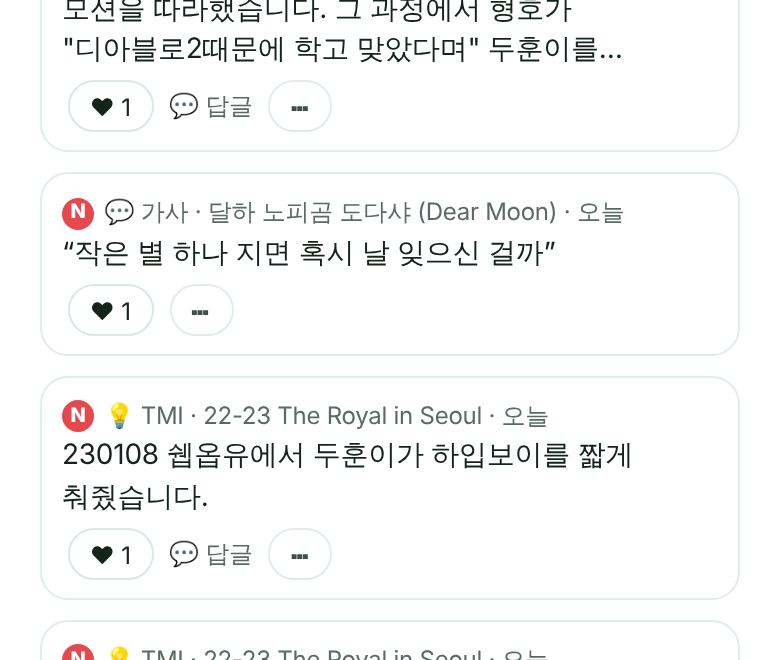
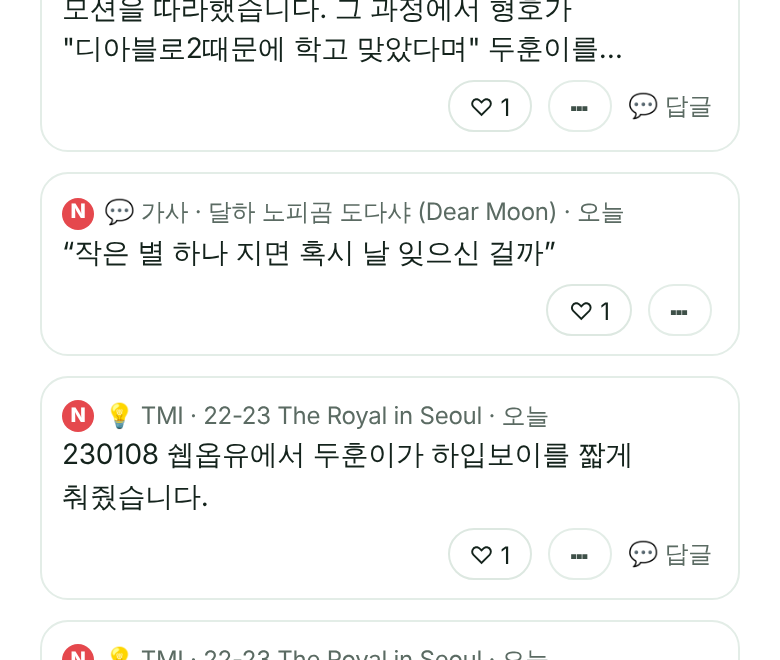
v490: 숲별 이야기 버튼 오른쪽 정렬(♥·⋯·💬), 안 누른 하트는 ♡
Claude-Session: https://claude.ai/code/session_01MGTh9zKioiZsMkgnkSk7j5

diff --git a/app.js b/app.js
@@ -603,7 +603,7 @@
     const uid = myUid(), upLocal = new Set([...(boxRead('sb-ly-up') || []), ...(boxRead(CH_SENT) || []), ...(boxRead(TMI_SENT) || [])].map(x => x.id)), rpd = boxRead(RP_SENT) || [];
     const mine = l.first === uid, on = mine || l.who.includes(uid) || upLocal.has(l.id), n = l.n + (upLocal.has(l.id) && !l.who.includes(uid) ? 1 : 0);
     return `<div class="story-row${rpd.includes(l.id) ? ' rp-done' : ''}"><a class="x-card no-img note-card story-card" href="${noteHref(l)}"><span class="x-text"><span class="x-date">${l.n >= STORY_BEST ? '<em class="nw-badge best-badge">BEST</em> ' : ''}${storyTag(l, fresh)}${NOTE_ICON[l.kind] || l.kind} · ${esc(noteWhere(l))} · ${storyAgo(l.at)}</span><span class="x-body">${l.kind === '가사' ? '“' + esc(l.text) + '”' : esc(l.text)}</span>${l.src ? `<span class="story-src">출처: ${esc(l.src)}</span>` : ''}</span></a>
-        <span class="story-acts"><button type="button" class="bpill st-up${on ? ' on' : ''}" data-id="${esc(l.id)}"${on ? ' disabled' : ''} aria-label="${l.kind === 'TMI' ? '나도 봤어요' : '좋아요'}">♥ ${n}</button>${l.kind === 'TMI' ? `<a class="st-re" href="${noteHref(l)}">💬 ${treCount(l.id) || '답글'}</a>` : ''}${trBtn(l.text)}${mine ? '' : rpBtn(l)}</span></div>`;
+        <span class="story-acts">${trBtn(l.text)}<button type="button" class="bpill st-up${on ? ' on' : ''}" data-id="${esc(l.id)}"${on ? ' disabled' : ''} aria-label="${l.kind === 'TMI' ? '나도 봤어요' : '좋아요'}">${on ? '♥' : '♡'} ${n}</button>${mine ? '' : rpBtn(l)}${l.kind === 'TMI' ? `<a class="st-re" href="${noteHref(l)}">💬 ${treCount(l.id) || '답글'}</a>` : ''}</span></div>`;
     }
   // 화면 꾸미기: 테마 색·글씨 크기 (이 폰에만 기억, sb-deco). 처음 그릴 때 깜빡이지 않게 index.html 머리에서도 한 번 넣어요
   const DECO_T = [['', '숲', '#1C7A5E'], ['night', '밤하늘', '#1F2286'], ['sakura', '벚꽃', '#AB274A'], ['sea', '바다', '#1E5782'], ['sunset', '노을', '#A35425'], ['lavender', '라벤더', '#6C2397']];
@@ -1463,7 +1463,7 @@
     const sentLocal = boxRead('sb-ly-sent') || [];
     const row = l => {
       const me = l.who.includes(uid) || sentLocal.includes(l.id);
-      return `<div class="ly-line"><q>${esc(l.text)}</q><span class="ly-side"><button type="button" class="bpill ly-up${me ? ' on' : ''}" data-key="${esc(so.key)}" data-t="${esc(l.text)}"${me ? ' disabled' : ''}>♥ ${l.n + (sentLocal.includes(l.id) && !l.who.includes(uid) ? 1 : 0)}</button><button type="button" class="link-btn lyc-btn" data-key="${esc(so.key)}" data-t="${esc(l.text)}" aria-label="가사 카드 만들기">🖼</button>${me ? '' : rpBtn(l)}${isAdmin() ? `<button type="button" class="link-btn ly-hide" data-id="${esc(l.id)}">숨기기</button>` : ''}</span></div>`;
+      return `<div class="ly-line"><q>${esc(l.text)}</q><span class="ly-side"><button type="button" class="bpill ly-up${me ? ' on' : ''}" data-key="${esc(so.key)}" data-t="${esc(l.text)}"${me ? ' disabled' : ''}>${me ? '♥' : '♡'} ${l.n + (sentLocal.includes(l.id) && !l.who.includes(uid) ? 1 : 0)}</button><button type="button" class="link-btn lyc-btn" data-key="${esc(so.key)}" data-t="${esc(l.text)}" aria-label="가사 카드 만들기">🖼</button>${me ? '' : rpBtn(l)}${isAdmin() ? `<button type="button" class="link-btn ly-hide" data-id="${esc(l.id)}">숨기기</button>` : ''}</span></div>`;
     };
     const myRow = (m, i) => `<div class="ly-line mine"><q>${esc(m.t)}</q><span class="ly-side"><small>${m.sh ? '공유함' : '🔒 나만'}</small><button type="button" class="link-btn lyc-btn" data-key="${esc(so.key)}" data-t="${esc(m.t)}" aria-label="가사 카드 만들기">🖼</button><button type="button" class="link-btn ly-del" data-key="${esc(so.key)}" data-i="${i}" aria-label="지우기">×</button></span></div>`;
     const n = shared.length + mine.filter(m => !m.sh).length;
@@ -1681,7 +1681,7 @@
     sent.filter(x => x.key === so.key && !list.some(l => l.id === x.id) && !x.del).forEach(x => list.push({ id: x.id, text: x.t, n: 1, who: [uid], at: x.at, wait: true }));
     const row = l => {
       const me = l.who.includes(uid) || ids.has(l.id);
-      return `<div class="ly-line"><span class="ch-t">${esc(l.text)}${l.wait ? ' <small class="src-note">반영 중</small>' : ''}</span><span class="ly-side"><button type="button" class="bpill ch-up${me ? ' on' : ''}" data-key="${esc(so.key)}" data-t="${esc(l.text)}"${me ? ' disabled' : ''} aria-label="나도 이렇게 불러요">♥ ${l.n + (ids.has(l.id) && !l.who.includes(uid) && !l.wait ? 1 : 0)}</button><button type="button" class="link-btn lyc-btn" data-key="${esc(so.key)}" data-t="${esc(l.text)}" aria-label="가사 카드 만들기">🖼</button>${me ? `<button type="button" class="link-btn ch-del" data-key="${esc(so.key)}" data-t="${esc(l.text)}" aria-label="지우기">×</button>` : rpBtn(l)}${isAdmin() ? `<button type="button" class="link-btn ly-hide" data-id="${esc(l.id)}">숨기기</button>` : ''}</span></div>`;
+      return `<div class="ly-line"><span class="ch-t">${esc(l.text)}${l.wait ? ' <small class="src-note">반영 중</small>' : ''}</span><span class="ly-side"><button type="button" class="bpill ch-up${me ? ' on' : ''}" data-key="${esc(so.key)}" data-t="${esc(l.text)}"${me ? ' disabled' : ''} aria-label="나도 이렇게 불러요">${me ? '♥' : '♡'} ${l.n + (ids.has(l.id) && !l.who.includes(uid) && !l.wait ? 1 : 0)}</button><button type="button" class="link-btn lyc-btn" data-key="${esc(so.key)}" data-t="${esc(l.text)}" aria-label="가사 카드 만들기">🖼</button>${me ? `<button type="button" class="link-btn ch-del" data-key="${esc(so.key)}" data-t="${esc(l.text)}" aria-label="지우기">×</button>` : rpBtn(l)}${isAdmin() ? `<button type="button" class="link-btn ly-hide" data-id="${esc(l.id)}">숨기기</button>` : ''}</span></div>`;
     };
     return `<details class="song-memo ch-box"${list.length ? ' open' : ''}><summary>📣 떼창 구간${list.length ? ` ${list.length}` : ''}</summary>
       ${list.map(row).join('')}
@@ -1779,7 +1779,7 @@
     const uid = myUid(), sent = boxRead(TMI_SENT) || [], ids = new Set(sent.map(x => x.id)), list = treOf(l.id), rpd = boxRead(RP_SENT) || [];
     const row = r => {
       const me = r.first === uid || (ids.has(r.id) && !(sent.find(x => x.id === r.id) || {}).up), on = me || r.who.includes(uid) || ids.has(r.id);
-      return `<div class="tre-row${rpd.includes(r.id) ? ' rp-done' : ''}"><div class="ly-line tre-line"><span class="ch-t">↳ ${esc(r.text)}${r.wait ? ' <small class="src-note">반영 중</small>' : ''}</span><span class="ly-side"><button type="button" class="bpill tre-up${on ? ' on' : ''}" data-key="${esc(key)}" data-p="${esc(l.id)}" data-t="${esc(r.text)}"${on ? ' disabled' : ''} aria-label="좋아요">♥ ${r.n + (ids.has(r.id) && !r.who.includes(uid) && !r.wait ? 1 : 0)}</button>${me ? `<button type="button" class="link-btn tre-del" data-p="${esc(l.id)}" data-t="${esc(r.text)}" aria-label="지우기">×</button>` : rpBtn(r)}${isAdmin() && !r.wait ? `<button type="button" class="link-btn ly-hide" data-id="${esc(r.id)}">숨기기</button>` : ''}</span></div>${depth < 1 && !r.wait ? treBox(r, key, depth + 1) : ''}</div>`;
+      return `<div class="tre-row${rpd.includes(r.id) ? ' rp-done' : ''}"><div class="ly-line tre-line"><span class="ch-t">↳ ${esc(r.text)}${r.wait ? ' <small class="src-note">반영 중</small>' : ''}</span><span class="ly-side"><button type="button" class="bpill tre-up${on ? ' on' : ''}" data-key="${esc(key)}" data-p="${esc(l.id)}" data-t="${esc(r.text)}"${on ? ' disabled' : ''} aria-label="좋아요">${on ? '♥' : '♡'} ${r.n + (ids.has(r.id) && !r.who.includes(uid) && !r.wait ? 1 : 0)}</button>${me ? `<button type="button" class="link-btn tre-del" data-p="${esc(l.id)}" data-t="${esc(r.text)}" aria-label="지우기">×</button>` : rpBtn(r)}${isAdmin() && !r.wait ? `<button type="button" class="link-btn ly-hide" data-id="${esc(r.id)}">숨기기</button>` : ''}</span></div>${depth < 1 && !r.wait ? treBox(r, key, depth + 1) : ''}</div>`;
     };
     const n = depth ? list.length : treCount(l.id);
     return `<details class="tre-box${depth ? ' tre-sub' : ''}" data-p="${esc(l.id)}"><summary>💬 답글${n ? ` ${n}` : ' 달기'}</summary>${list.map(row).join('')}
@@ -1818,7 +1818,7 @@
     const srcHtml = u => !u ? '' : /^https?:\/\//.test(u) ? `<a class="tmi-src" href="${esc(u)}" target="_blank" rel="noopener">출처 ↗</a>` : `<span class="tmi-src">출처: ${esc(u)}</span>`;
     const row = l => {
       const me = l.who.includes(uid) || ids.has(l.id);
-      return `<div class="ly-line${rpd.includes(l.id) ? ' rp-done' : ''}"><span class="ch-t">${esc(l.text)} ${srcHtml(l.src)}${l.wait ? ' <small class="src-note">반영 중</small>' : ''}</span><span class="ly-side"><button type="button" class="bpill tmi-up${me ? ' on' : ''}" data-key="${esc(key)}" data-t="${esc(l.text)}"${me ? ' disabled' : ''} aria-label="나도 봤어요">♥ ${l.n + (ids.has(l.id) && !l.who.includes(uid) && !l.wait ? 1 : 0)}</button>${me ? `<button type="button" class="link-btn tmi-del" data-key="${esc(key)}" data-t="${esc(l.text)}" aria-label="지우기">×</button>` : rpBtn(l)}${isAdmin() ? `<button type="button" class="link-btn ly-hide" data-id="${esc(l.id)}">숨기기</button>` : ''}</span></div>${l.wait ? '' : treBox(l, key)}`;
+      return `<div class="ly-line${rpd.includes(l.id) ? ' rp-done' : ''}"><span class="ch-t">${esc(l.text)} ${srcHtml(l.src)}${l.wait ? ' <small class="src-note">반영 중</small>' : ''}</span><span class="ly-side"><button type="button" class="bpill tmi-up${me ? ' on' : ''}" data-key="${esc(key)}" data-t="${esc(l.text)}"${me ? ' disabled' : ''} aria-label="나도 봤어요">${me ? '♥' : '♡'} ${l.n + (ids.has(l.id) && !l.who.includes(uid) && !l.wait ? 1 : 0)}</button>${me ? `<button type="button" class="link-btn tmi-del" data-key="${esc(key)}" data-t="${esc(l.text)}" aria-label="지우기">×</button>` : rpBtn(l)}${isAdmin() ? `<button type="button" class="link-btn ly-hide" data-id="${esc(l.id)}">숨기기</button>` : ''}</span></div>${l.wait ? '' : treBox(l, key)}`;
     };
     return `<section class="tmi-box" data-key="${esc(key)}" data-title="${esc(title)}"><div class="block-head"><h2 class="h3">💡 TMI${list.length ? ` <span class="song-count">${list.length}</span>` : ''}</h2></div>
       ${list.length ? list.map(row).join('') : '<p class="src-note">아직 TMI가 없어요. 알고 있는 뒷이야기를 남겨 주세요.</p>'}

diff --git a/index.html b/index.html
@@ -23,7 +23,7 @@
 <link href="https://fonts.googleapis.com/css2?family=Gowun+Batang:wght@400;700&display=swap" rel="stylesheet">
 <link rel="stylesheet" href="https://cdn.jsdelivr.net/gh/orioncactus/pretendard@v1.3.9/dist/web/variable/pretendardvariable-dynamic-subset.min.css">
 <script>try{var d=JSON.parse(localStorage.getItem('sb-deco')||'{}');if(d.t)document.documentElement.dataset.theme=d.t;if(d.f)document.documentElement.dataset.fs=d.f}catch(e){}</script>
-<link rel="stylesheet" href="style.css?v=489">
+<link rel="stylesheet" href="style.css?v=490">
 </head>
 <body>
 <div class="app">
@@ -46,9 +46,9 @@
 <!-- 방문자 수 (GoatCounter: 쿠키·개인정보 없이 화면별 방문 수만 세요) -->
 <script data-goatcounter="https://soopbyeol.goatcounter.com/count" data-goatcounter-settings='{"no_onload": true}' async src="https://gc.zgo.at/count.js"></script>
 <script src="lib/fuse.min.js"></script>
-<script src="i18n.js?v=489"></script>
-<script src="config.js?v=489"></script>
-<script src="data.js?v=489"></script>
-<script src="app.js?v=489"></script>
+<script src="i18n.js?v=490"></script>
+<script src="config.js?v=490"></script>
+<script src="data.js?v=490"></script>
+<script src="app.js?v=490"></script>
 </body>
 </html>

diff --git a/style.css b/style.css
@@ -1616,10 +1616,9 @@ a.ev-day.went { background: #FFF1F5; color: #B23A5E; }
 .story-card .news-cnt { font-size: calc(10px * var(--fs)); }
 .story-row { position: relative; }
 .story-row .story-card { padding-bottom: 40px; }
-.story-acts { position: absolute; left: 14px; bottom: 10px; display: flex; gap: 8px; align-items: center; }
+.story-acts { position: absolute; right: 14px; bottom: 10px; display: flex; gap: 8px; align-items: center; }
 .story-acts .bpill { height: 26px; font-size: calc(12px * var(--fs)); padding: 0 10px; }
 .story-acts .st-tr { font-size: calc(12px * var(--fs)); color: var(--muted, #6b7a70); background: none; border: 0; padding: 0 2px; cursor: pointer; }
-.story-acts .rp-btn { margin-left: auto; }
 .story-row.rp-done { opacity: .5; }
 .nw-badge { display: inline-block; position: static; padding: 1px 6px; margin-right: 4px; border-radius: 6px; background: #FF6B4A; color: #fff; font-size: calc(10px * var(--fs)); font-weight: 800; letter-spacing: .3px; vertical-align: 1px; }
 .news-cnt { display: inline-block; padding: 1px 7px; border-radius: 6px; background: #FF6B4A; color: #fff !important; font-size: calc(11px * var(--fs)); font-weight: 800; }

diff --git a/sw.js b/sw.js
@@ -1,6 +1,6 @@
 // 한 번 연 화면 파일을 저장해 두고, 다음부터 빨리 열거나 인터넷이 없을 때 써요.
 // 시트 데이터는 data.js가 따로 저장하니까 여기서는 사이트 파일만 다뤄요.
-const CACHE = 'soopbyeol-v489';
+const CACHE = 'soopbyeol-v490';
 const SHELL = ['./', 'index.html', 'style.css?v=162', 'config.js?v=162', 'data.js?v=162', 'app.js?v=162', 'lib/fuse.min.js', 'manifest.webmanifest', 'icons/icon-192.png'];
 
 self.addEventListener('install', ev => {
